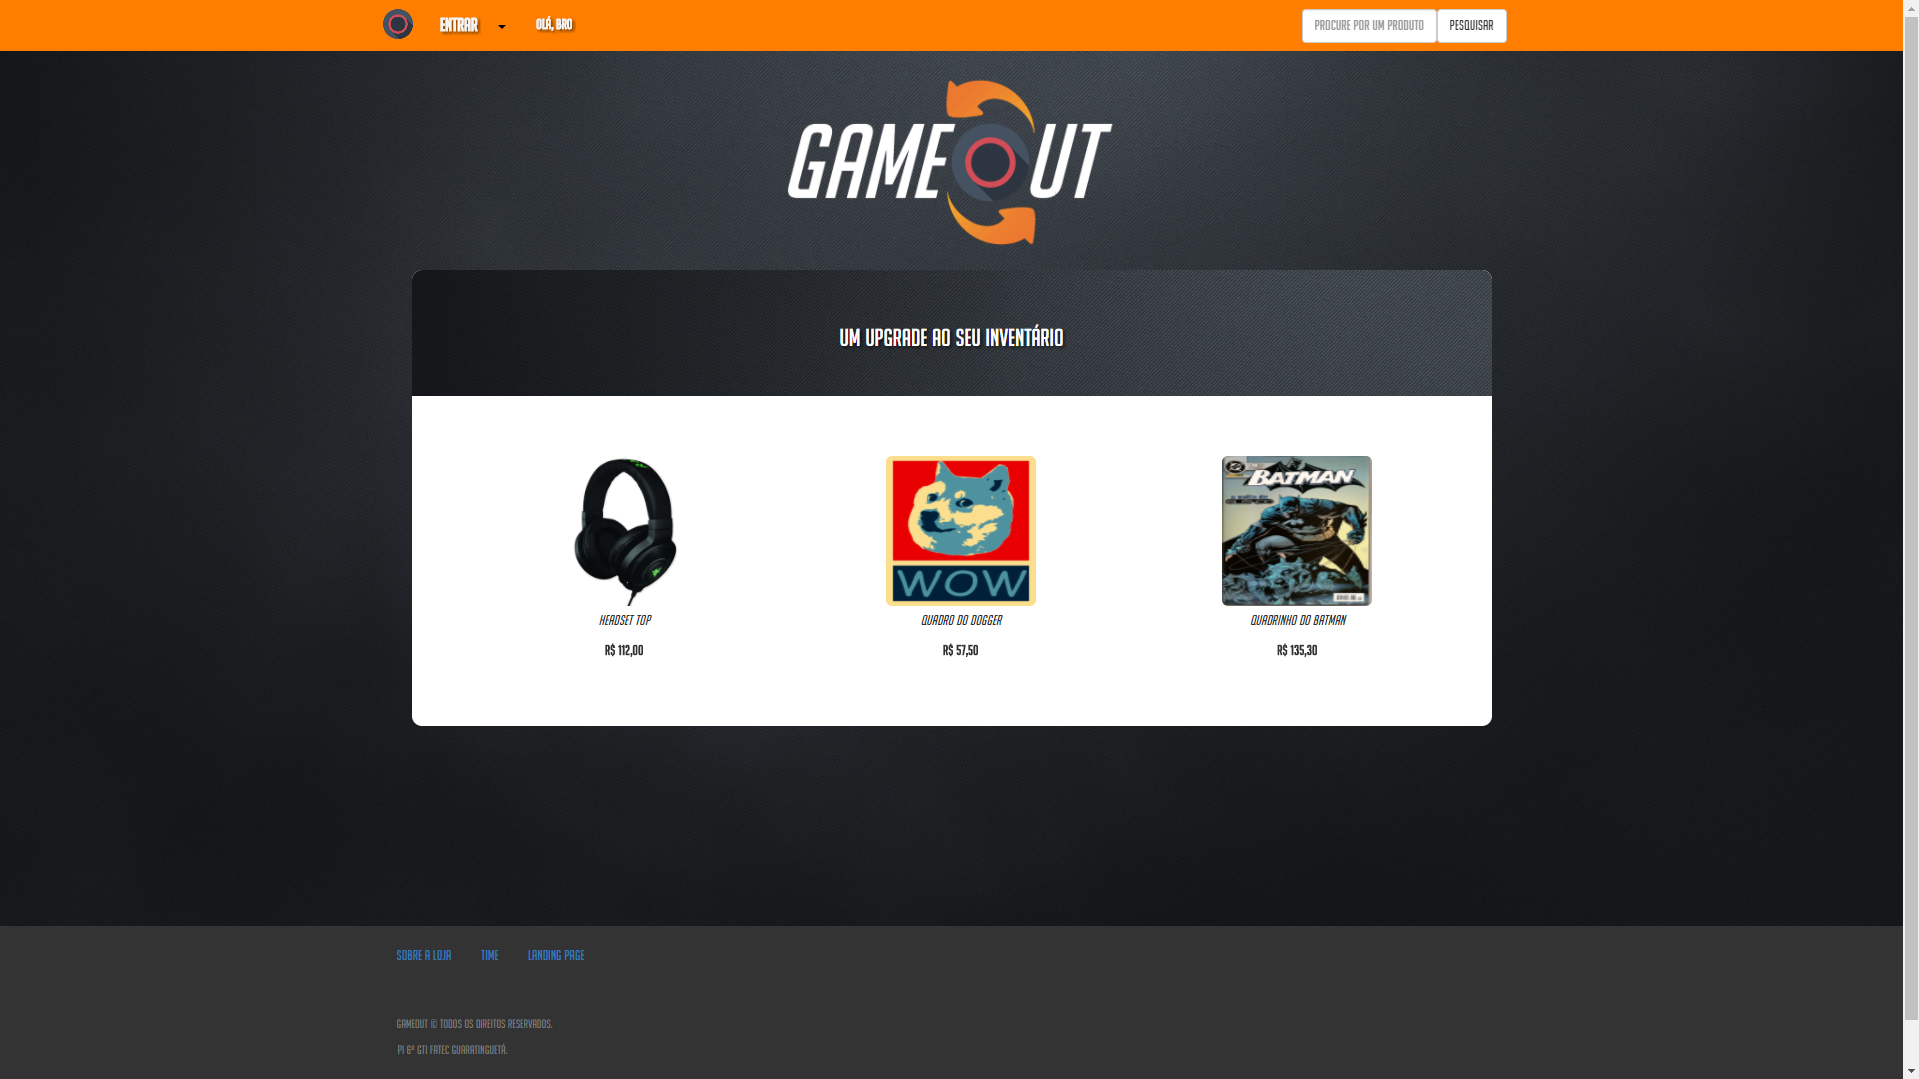
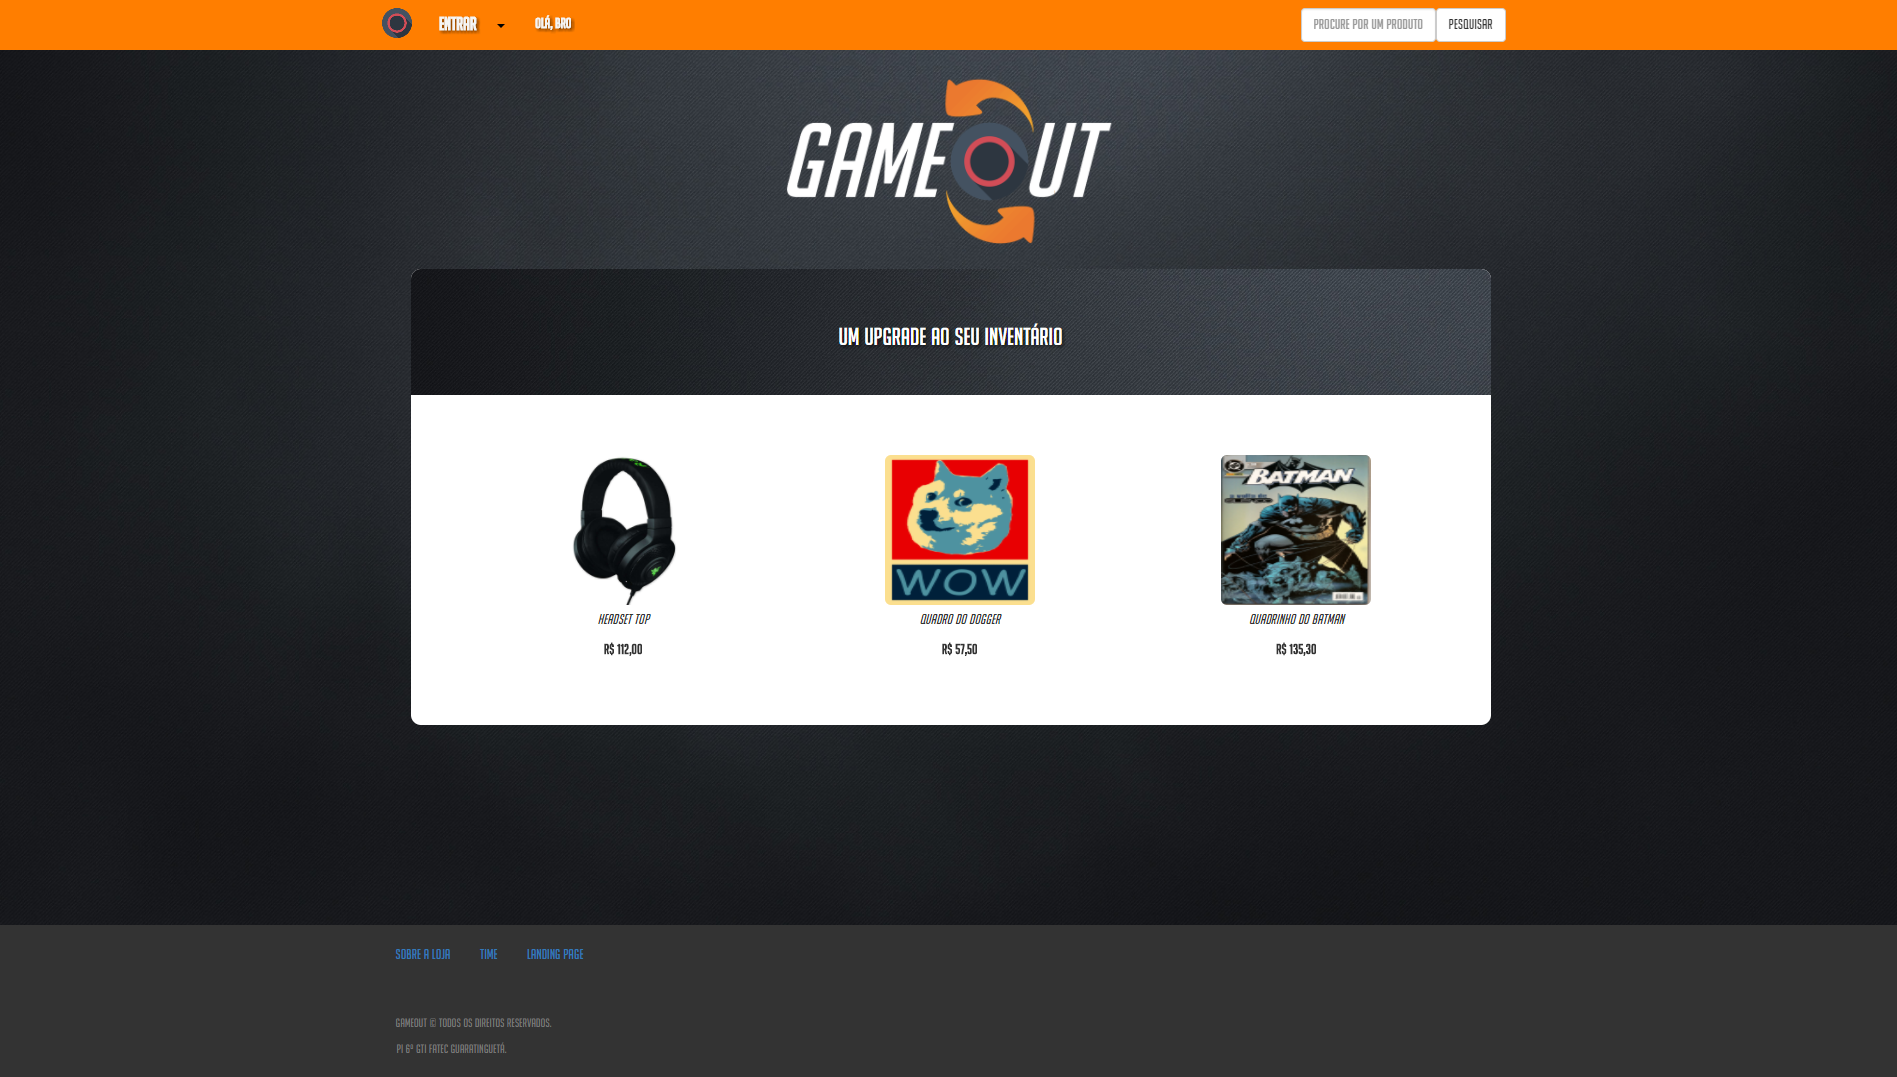
GameOut

diff --git a/front-end/pages/game-out.tsx b/front-end/pages/game-out.tsx
@@ -1,4 +1,4 @@
-import { useState } from 'react';
+import { Fragment, useState } from 'react';
 import Typewriter from 'typewriter-effect'; // https://www.npmjs.com/package/typewriter-effect
 import Botao from '../components/outros/botao';
 import Styles from '../styles/gameout.module.scss';
@@ -7,38 +7,50 @@ export default function GameOut() {
     document.title = 'GameOut, o GeekSpot em 2017';
 
     const [isMostrarBotao, setIsMostrarBotao] = useState(false);
-    const msg = 'O GeekSpot nasceu em 2016. 🍼<br/><br/>Infelizmente não podemos vê-lo novamente, com sua cara original de 2016. 😥<br/><br/>Todos seus vestígios foram apagados da face da Terra. 😧<br/><br/>Mas ele ganhou um novo nome, e uma nova retocada em sua cara, em 2017. 🤠<br/><br/>Nessa época seu nome era GameOut. 🤓<br/><br/>Agora, em 2022, retornou das cinzas, com seu nome original, GeekSpot 😎<br/><br/>Veja abaixo como era o GeekSpot em 2017:';
+    const nomeSistema = '<span class="cor-principal">GeekSpot</span>';
+    const [isMostrarPrint, setIsMostrarPrint] = useState(false);
 
     return (
-        <main className={`${Styles.wrapper} paddingPadrao`}>
-            <div className={Styles.divType}>
-                <Typewriter
-                    onInit={(typewriter) => {
-                        typewriter
-                            .typeString(msg)
-                            .pauseFor(1000)
-                            // .deleteAll()
-                            .callFunction(() => {
-                                // console.log('Fim do processo');
-                                setIsMostrarBotao(true);
-                            })
-                            .start();
-                    }}
-
-                    options={{
-                        delay: 80,
-                    }}
-                />
-            </div>
-
+        <Fragment>
             {
-                isMostrarBotao && (
-                    <div className='margem2 animate__animated animate__fadeIn'>
-                        <Botao texto='Ver o GeekSpot de 2017' url={null} isNovaAba={false} handleFuncao={() => null} Svg={null} refBtn={null} isEnabled={true} />
-                    </div>
+                !isMostrarPrint ? (
+                    <main className={`${Styles.wrapper} paddingPadrao`} >
+                        <div className={Styles.divType}>
+                            <Typewriter
+                                onInit={(typewriter) => {
+                                    typewriter
+                                        .typeString(`O ${nomeSistema} nasceu em 2016. 🍼<br/><br/>PS: O ${nomeSistema} ganhou um novo nome, e uma nova retocada em sua cara, em 2017: <span class="cor-principal">GameOut</span>.`)
+                                        .pauseFor(1000)
+                                        .deleteAll()
+                                        .typeString(`Agora, em 2022, retornou das cinzas, com seu nome original, ${nomeSistema} 😎<br/><br/>Veja abaixo como era o ${nomeSistema} em 2017:`)
+                                        .pauseFor(1000)
+                                        .callFunction(() => {
+                                            // console.log('Fim do processo');
+                                            setIsMostrarBotao(true);
+                                        })
+                                        .start();
+                                }}
+
+                                options={{
+                                    delay: 80,
+                                    deleteSpeed: 1
+                                }}
+                            />
+                        </div>
+
+                        {
+                            isMostrarBotao && (
+                                <div className='margem2 animate__animated animate__fadeIn'>
+                                    <Botao texto='Ver o GeekSpot de 2017' url={null} isNovaAba={false} handleFuncao={() => setIsMostrarPrint(true)} Svg={null} refBtn={null} isEnabled={true} />
+                                </div>
+                            )
+                        }
+                    </main >
+                ) : (
+                    <div className={`${Styles.backgroundFull} animate__animated animate__fadeIn`}></div>
                 )
             }
-        </main>
+        </Fragment>
     )
 }
 

diff --git a/front-end/styles/gameout.module.scss b/front-end/styles/gameout.module.scss
@@ -1,6 +1,6 @@
 .wrapper {
     // background-color: red;
-    height: 90vh;
+    height: 80vh;
     display: flex;
     justify-content: center;
     align-items: center;
@@ -27,4 +27,19 @@
         height: 5rem;
         font-size: 1.5rem;
     }
+}
+
+.backgroundFull {
+    // background-color: red;
+    position: absolute;
+    left: 0;
+    width: 100vw;
+    height: 100vh;
+    overflow: hidden !important;
+
+    background: url(/static/image/geekspot_fatec/gameout_2017.webp) no-repeat center center fixed;
+    -webkit-background-size: cover;
+    -moz-background-size: cover;
+    -o-background-size: cover;
+    background-size: cover;
 }
